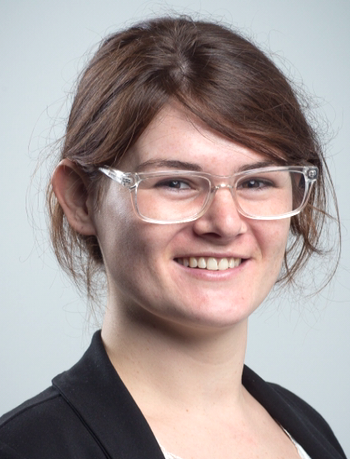
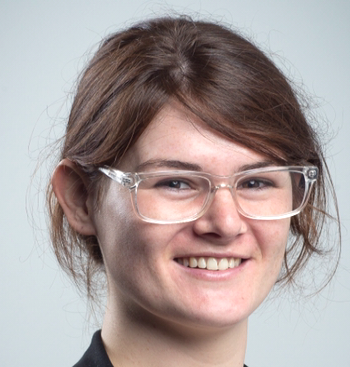
Changed the image class

diff --git a/about.html b/about.html
@@ -40,7 +40,7 @@
           </div>
           </div>
           <div class="col-6">  
-          <img src="images/Margot-Metzemaekers.png" class="img-fluid rounded float-end rounded-circle"/>
+          <img src="images/Margot-Metzemaekers.png" class="img-fluid rounded float-end rounded"/>
           </div>
         </div>
         </div>
